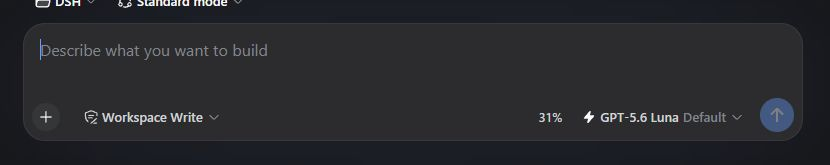
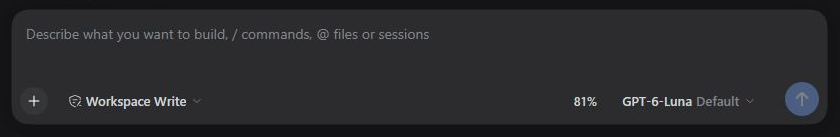
docs: refresh bilingual composer screenshots from current host

diff --git a/docs/showcase/README.md b/docs/showcase/README.md
@@ -43,3 +43,8 @@ together when changing the published presentation.
 The README displays Images & sketch crops directly. The plugin-list captures are
 1200 × 780 native screenshots with the sidebar collapsed; they show the actual icon
 in the Plugins homepage, not its details screen. No UI content was generated.
+
+Composer screenshots were refreshed in the same host on 2026-09-27. Both use
+GPT-6-Luna Default and native percentage quota display, cropped at x=245, y=343,
+840 × 137 from a 1280 × 720 screenshot. Language, sidebar, and quota-display
+preferences were restored after capture; no model request was sent.

diff --git a/README.en.md b/README.en.md
@@ -87,7 +87,7 @@ dsh --profile headless "Reply with only the word: ok"
 
 Choose a model, adjust reasoning, enable Fast mode, and check remaining quota without opening settings for every request.
 
-<p align="center"><img src="docs/assets/composer-quota-en.png" width="800" alt="DSH composer with Astra, Max reasoning, Fast mode and remaining quota"></p>
+<p align="center"><img src="docs/assets/composer-quota-en.png" width="800" alt="DSH composer with GPT-6-Luna, reasoning controls and remaining quota"></p>
 
 ### Accounts and preferences, in one place
 

diff --git a/README.md b/README.md
@@ -87,7 +87,7 @@ dsh --profile headless "只回复：ok"
 
 选模型、调推理档位、开启高速模式，同时查看剩余额度。无需为每次请求打开设置。
 
-<p align="center"><img src="docs/assets/composer-quota.png" width="800" alt="DSH 输入框：Astra、Max 推理档位、高速模式与剩余额度"></p>
+<p align="center"><img src="docs/assets/composer-quota.png" width="800" alt="DSH 输入框：GPT-6-Luna、推理档位入口与剩余额度"></p>
 
 ### 账号与偏好，集中管理
 
